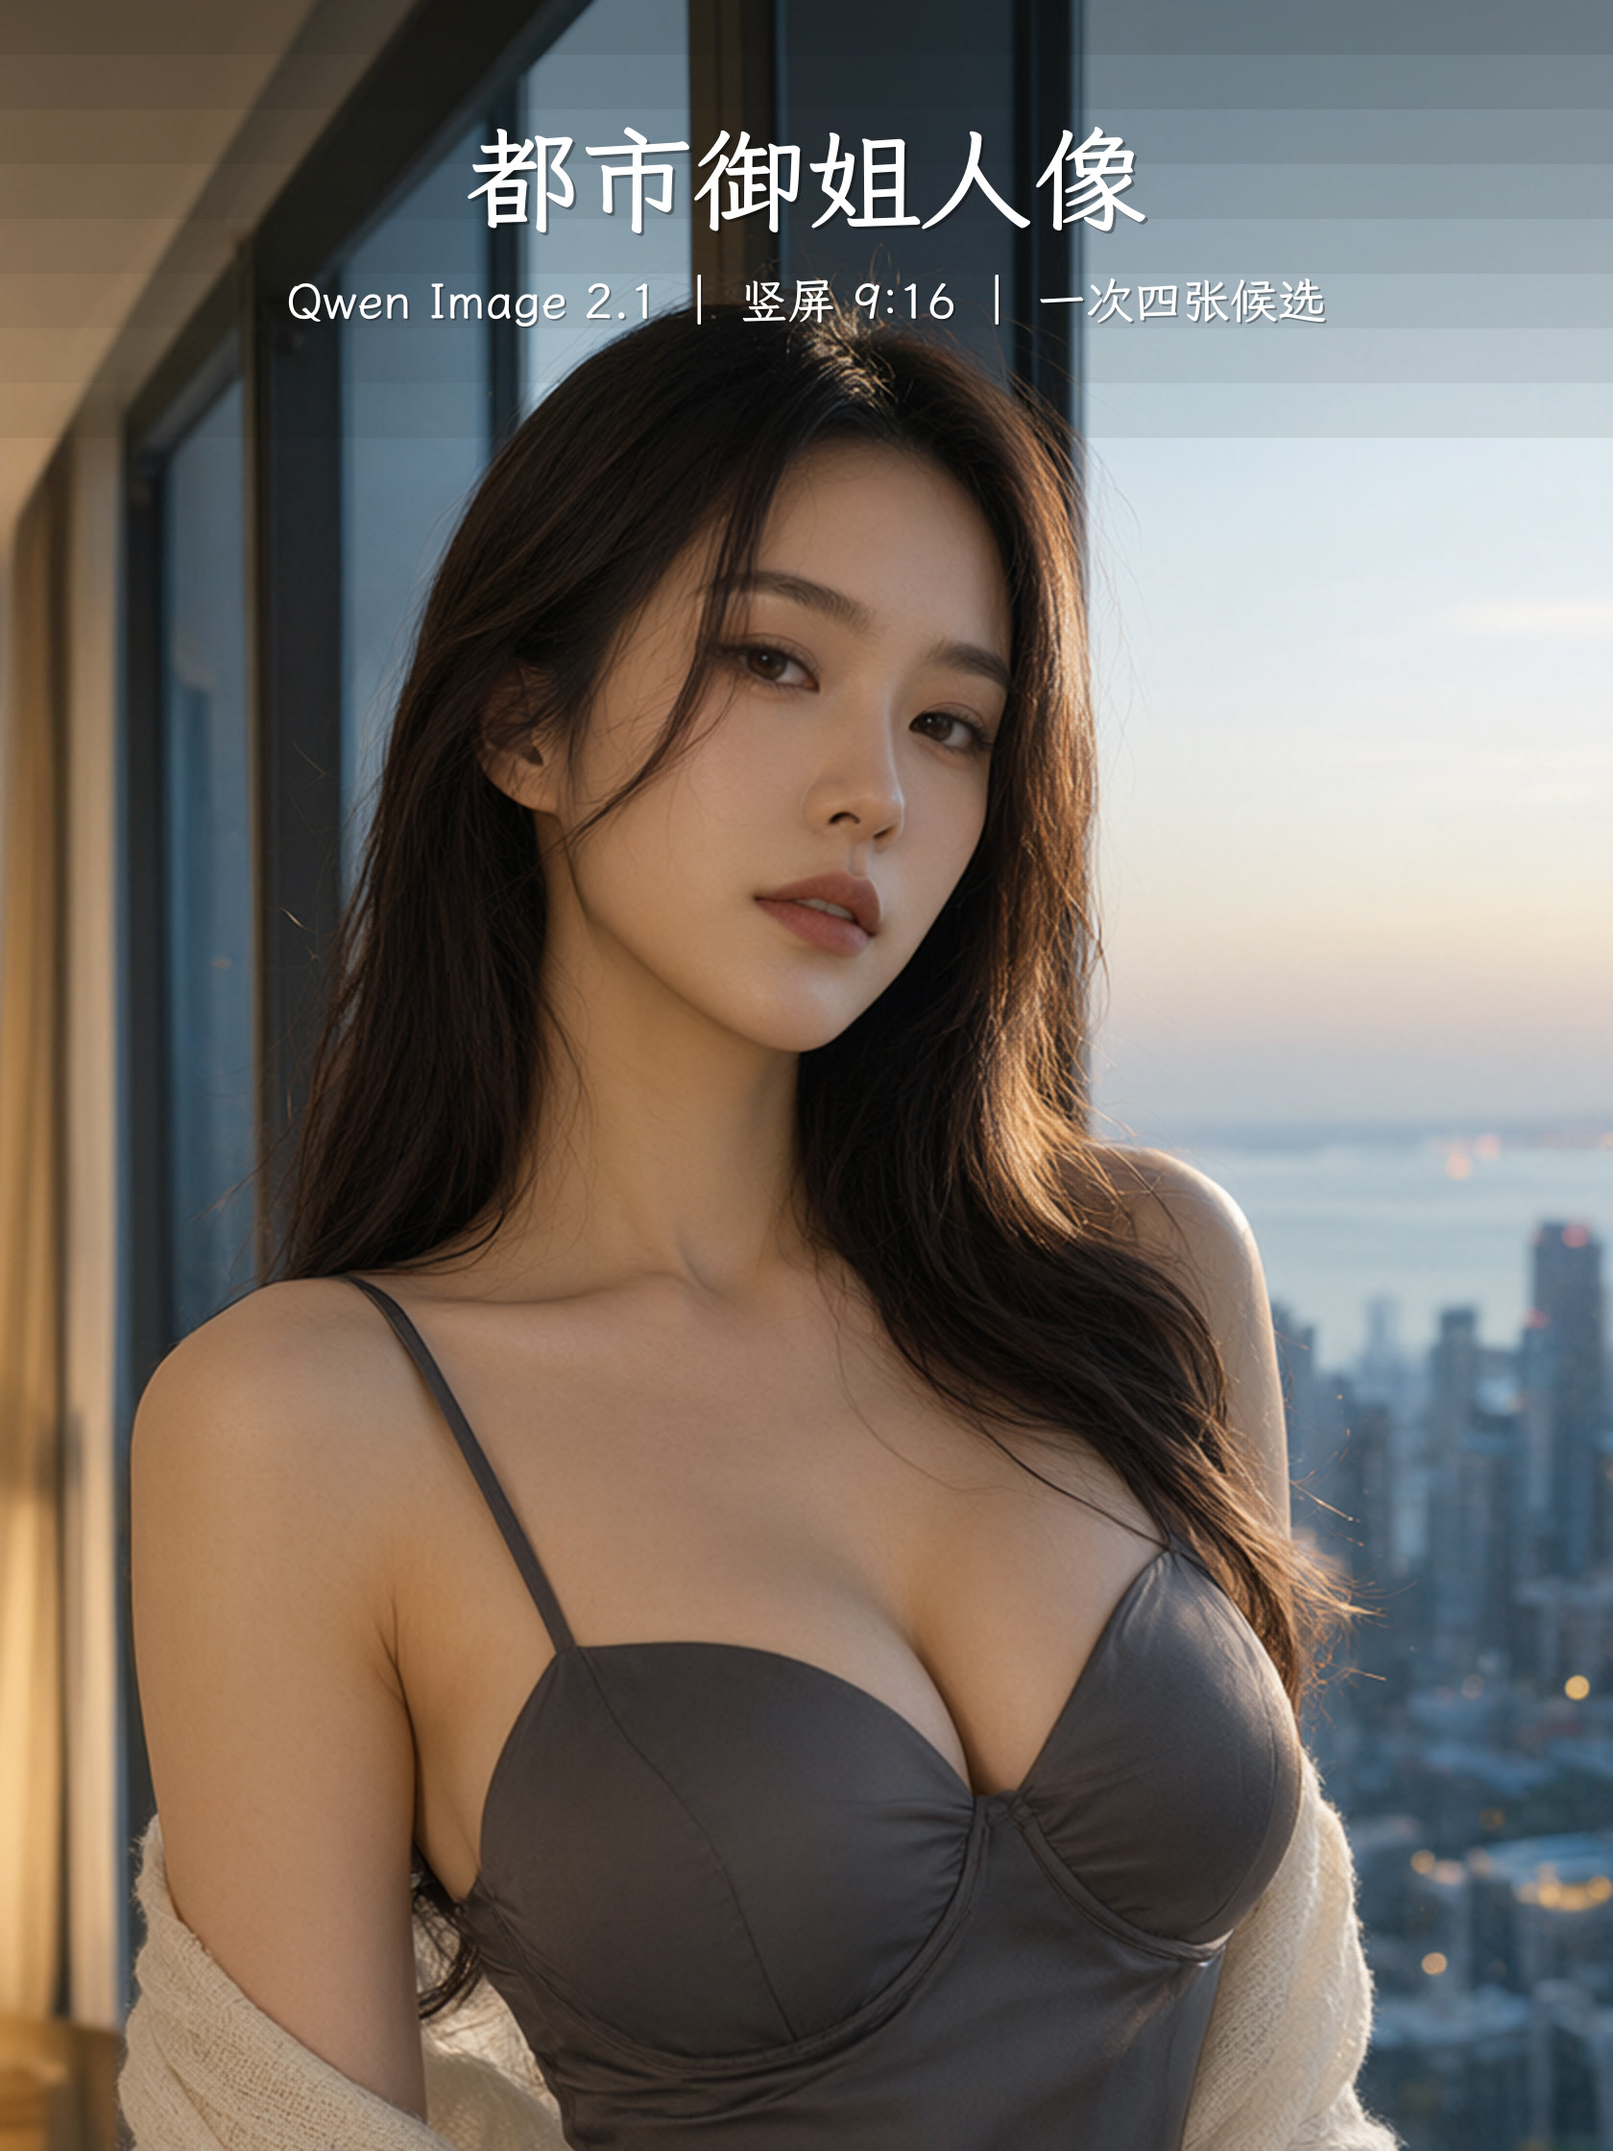
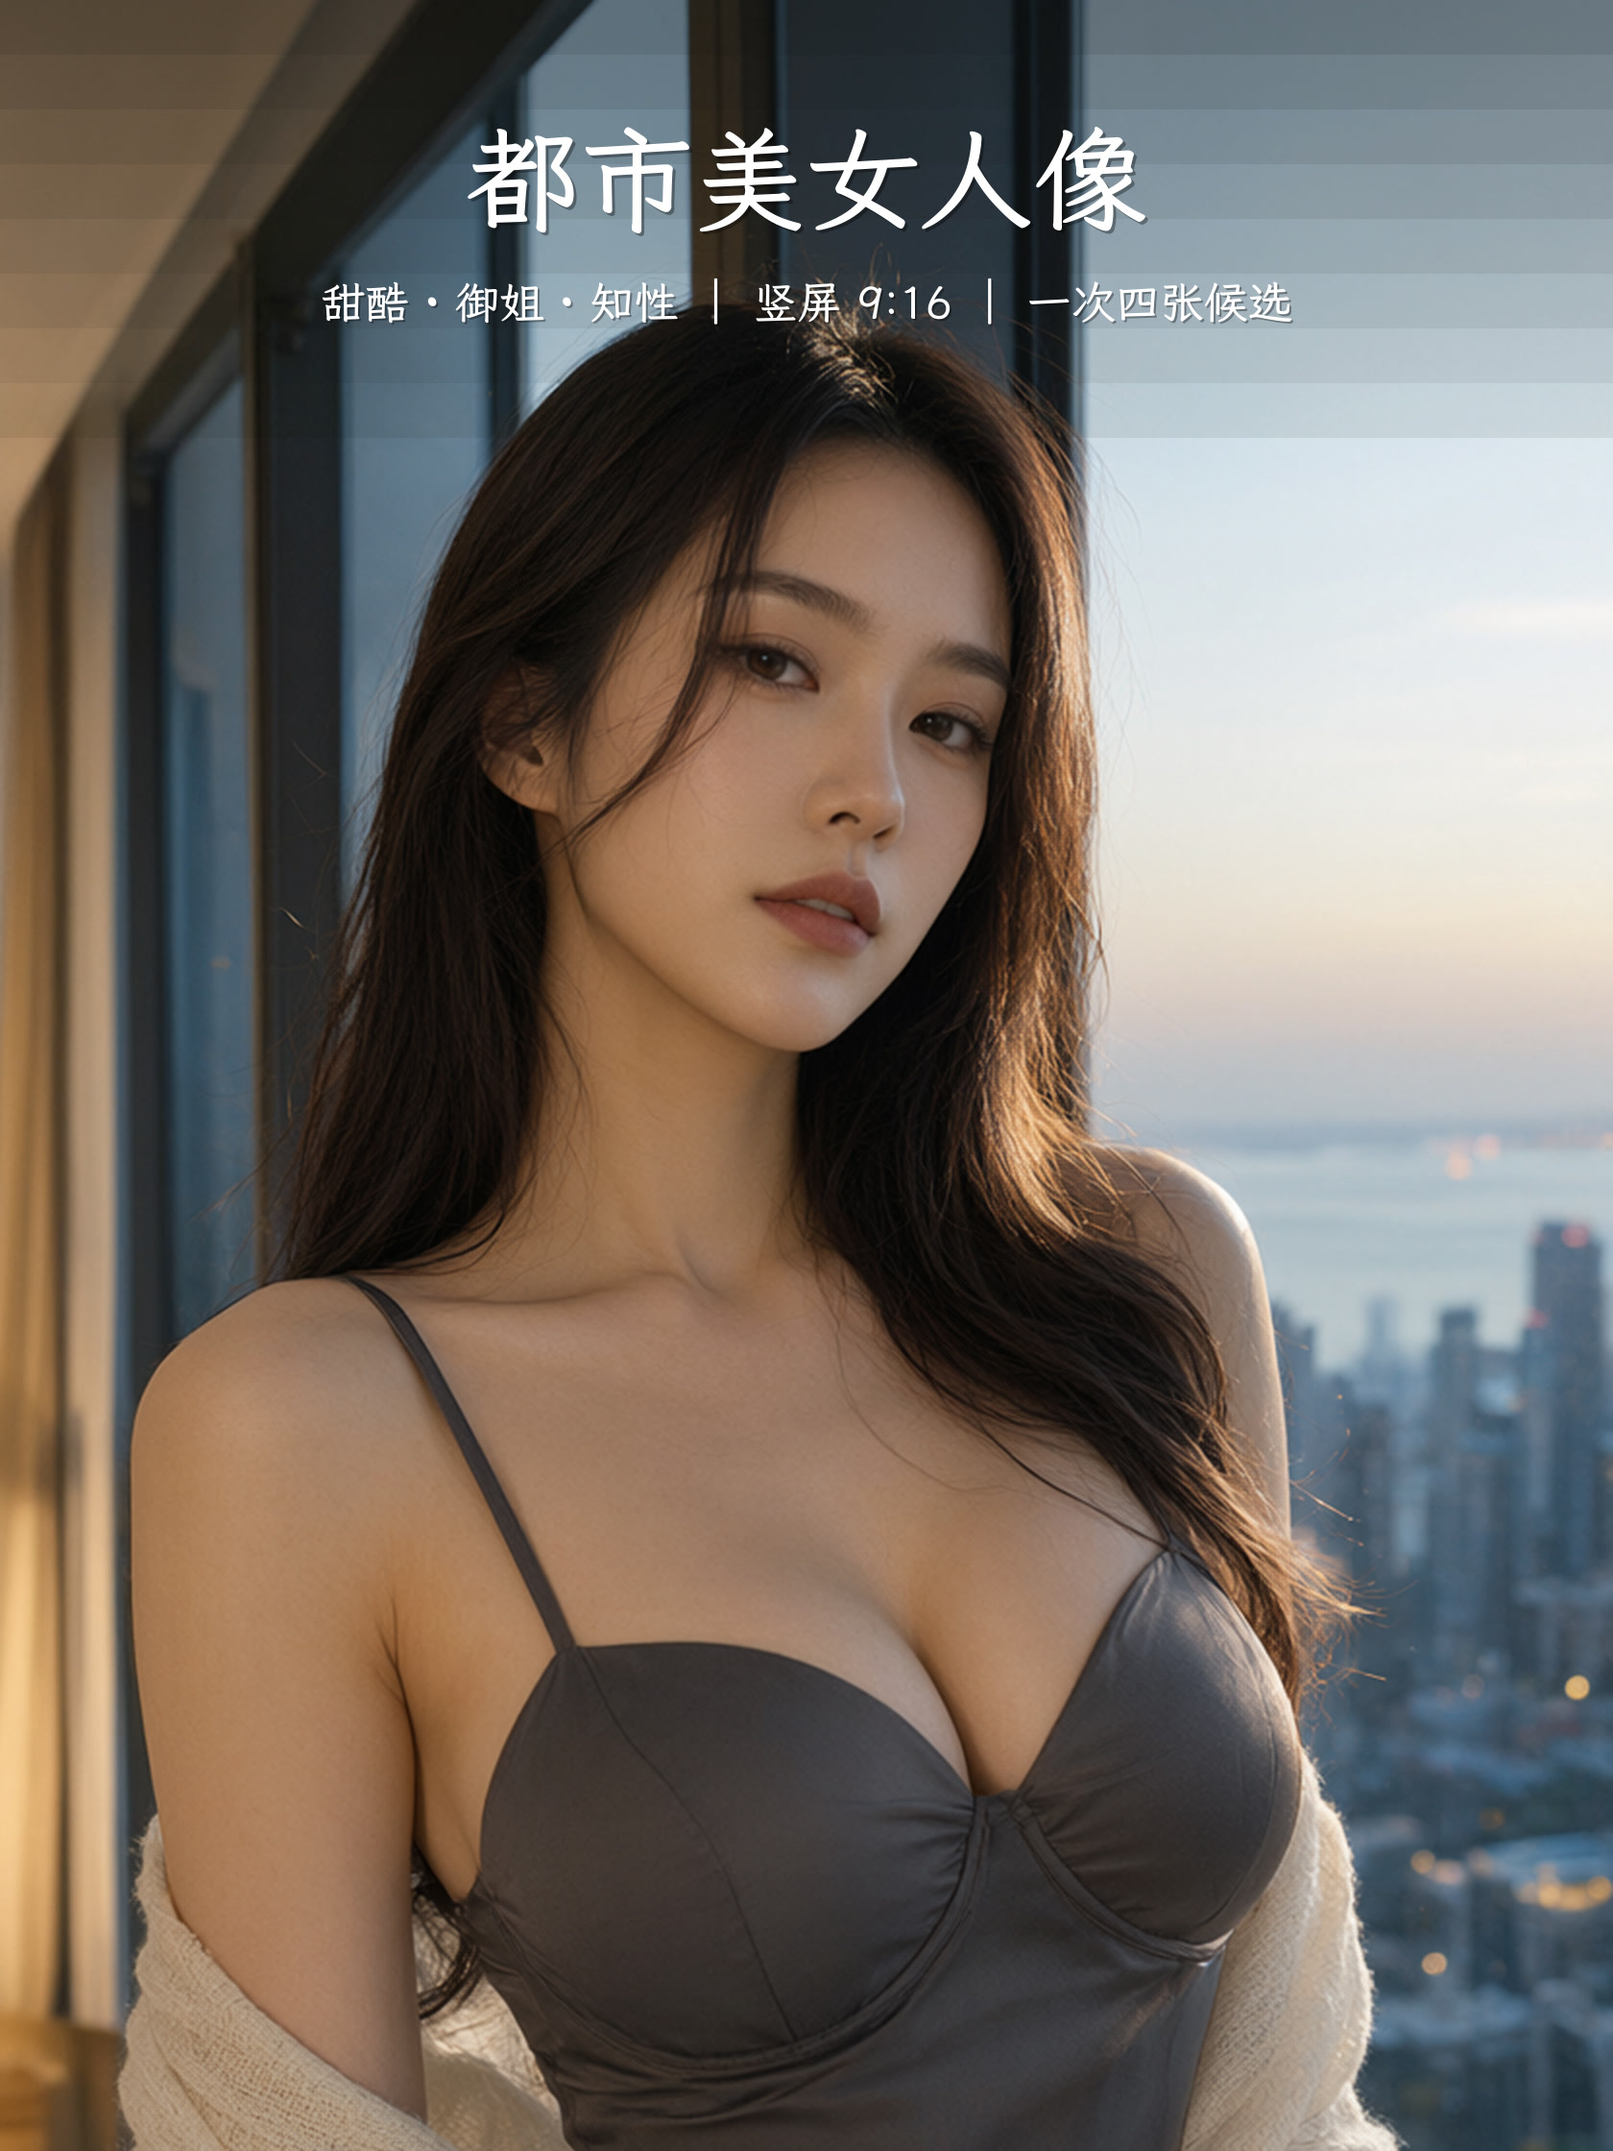
update: 底座换 bf16_Raw、去掉 Cache 节点、默认人设改甜酷纯欲、负向清空

Changed region(s): [[0.1857, 0.0625, 0.619, 0.1562], [0.65, 0.125, 0.8357, 0.1562]]

diff --git a/verified/Qwen2.1-文生图-都市御姐网红-竖屏四张候选/record.md b/verified/Qwen2.1-文生图-都市御姐网红-竖屏四张候选/record.md
@@ -1,12 +1,13 @@
-# Qwen2.1 文生图 · 都市御姐网红 · 竖屏四张候选
+# Qwen2.1 文生图 · 都市美女网红 · 竖屏四张候选
 
-**一句话用途**：以后要出「都市美女 / 御姐 / 纯欲」人像，就用这张图——竖屏 9:16，一次出 4 张同提示词不同种子，挑一张。
+**一句话用途**：以后要出「都市美女 / 甜酷 / 御姐 / 纯欲」人像，就用这张图——竖屏 9:16，一次出 4 张同提示词不同种子，挑一张。
+
+> 目录名沿用建包时的「都市御姐」，现在默认人设已换成**甜酷纯欲**；同一张图换「主体 / 身材 / 妆造 / 服装 / 场景」五行即可切回御姐或知性。
 
 ## 拓扑
 
 ```
-UNETLoader qwen_image_2.1_int8_convrot
-  └─ QwenImage21Cache(device=auto, dtype=default) → KSampler.model
+UNETLoader qwen_image_2.1_bf16_Raw → KSampler.model
 CLIPLoader qwen3vl_8b_int8_convrot (type=qwen_image) → TextEncodeQwenImage21.clip
 TextEncodeQwenImage21 ─ positive → KSampler.positive
                      ─ negative → KSampler.negative
@@ -15,10 +16,15 @@ VAELoader qwen_image_2.1_vae_bf16 → VAEDecode.vae
 KSampler → VAEDecode → SaveImage
 ```
 
-10 节点 / 9 连线。接线取自跑在生产环境的 `rh1`（workflowId `2112845992205840385`），只做了两处**行为不变**的简化：
+**9 节点 / 8 连线**。两处与生产图 `rh1`（workflowId `2112845992205840385`）不同，都是有意为之：
 
-1. 去掉 `String → StringToInt` 链，宽高/批次直接写成控件；
-2. 去掉 `CR Prompt Text` / `PreviewAny`，提示词直接写在文本编码节点上。
+| 改动 | 为什么 |
+|---|---|
+| **去掉 `QwenImage21Cache`** | 平台上每次任务可能落到不同机器，节点装没装随实例而变。少一个可选节点，就多一分「任何机器都能跑」的稳妥；它只包在 model 外层做加速，不是出图必需。实证：去掉后平台跑通。 |
+| **负向提示词清空** | cfg=1 时负向分支不参与计算，写什么都是死参数，留着只会误导人以为能靠负向修图。 |
+| 底座 `int8_convrot` → `bf16_Raw` | 整精度，皮肤与发丝细节更足；代价是更慢、更吃显存。 |
+
+另外去掉了 `String → StringToInt` 与 `CR Prompt Text`，宽高/批次/提示词直接写在控件上。
 
 ## 默认参数
 
@@ -26,29 +32,30 @@ KSampler → VAEDecode → SaveImage
 |---|---|---|
 | 画幅 | 832×1472（≈9:16，两边都是 16 的倍数） | 手机竖屏；比例不对会被 latent 向下取整 |
 | 批次 | 4 | 一次出 4 张候选，耗时几乎不涨 |
-| 步数 / cfg | 25 / 1 | 这是这套 int8 底座的出厂跑法；**cfg=1 时负面提示词完全不生效** |
-| 采样器 / 调度 | euler / simple | 同上 |
-| 种子 | 20261119（节点上可切 randomize） | 固定才能复现 |
-| 提示词 | 430 字中文，按「主体/身材/姿态/妆造/服装/场景/镜头/神情/光线/质感」分行 | 改一行换一块 |
+| 步数 / cfg | 25 / 1 | 官方 Qwen-Image 2.1 模板值；**cfg=1 负向不生效** |
+| 采样器 / 调度 | euler / simple | 官方模板与 Hub 工作流一致，flow-matching 模型的主流配法 |
+| 种子 | 20261120（节点上可切 randomize） | 固定才能复现 |
+| 提示词 | 368 字中文，十行结构 | 甜酷纯欲 · 街角便利店 |
 
 ## 实测数据
 
-- taskId `2123085685190778882`（v2，挺立版），4 张全部落盘，单张 1.82–1.94 MB，832×1472 精确命中。
-- 首版 taskId `2123084776364789762`：胸型偏小偏垂 → 加「身材」「姿态」两段 + 服装改「内置挺括胸衣结构」后重跑，v2 达标。
-- 耗时平台未回传；同参数历史记录（rh1，1440×608 四张）为 42–55s 量级，本包尺寸更小。
+- **int8 版**：taskId `2123085685190778882`，4 张全落盘，832×1472 精确命中，单张 1.82–1.94 MB。
+- **bf16 版**（当前版本）：使用者在 RunningHub 平台跑通并确认可用；耗时与显存占用未回填（bf16 比 int8 更重，属预期）。
+- 封面图取自 int8 版 v2 第 1 张，仅作示意，不代表当前提示词的出图结果。
 
 ## 已知限制
 
-1. **cfg=1，负面提示词是死参数**。写「不要下垂」不会生效，只能靠正文正向描述（挺立 / 位置高 / 姿态前挺 / 胸衣结构）。
-2. 身体比例推太狠会开始出现不自然，到「丰满挺立」就已经接近上限。
-3. 尺寸只能微调：宽高都必须是 16 的倍数，且比例别偏离 9:16 太多，否则构图会漂。
-4. 平台审核对露点与暗示性姿势直接拦截——本包提示词不含任何越线词，靠神态与侧逆光造氛围。
-5. UI 版控件顺序按 `/object_info` 逐个核过，但没有在浏览器里真导入过（文件选择器没法自动化）；API 版是实测跑通的，导入若有问题就用 API 版。
+1. **cfg=1，负向提示词是死参数**（已清空）。要修「脸崩 / 手指」只能改正向描述，或把 cfg 提到 2（画质会降）。
+2. **bf16 更吃显存**：大图或高批次在小卡实例上可能 OOM；真遇到就把 batch 降到 1–2。
+3. 身体比例推太狠会开始不自然，「丰满挺立」已经接近上限。
+4. 宽高必须是 16 的倍数且成对改，比例偏了构图会漂。
+5. 平台对露点与暗示性姿势直接拦截；丝袜类只写「黑色薄丝袜，光泽细腻」，不写吊带袜 / 渔网 / 蕾丝边。
+6. **UI 版控件顺序按 `/object_info` 逐个核过，但没有在浏览器里真导入过**（文件选择器无法自动化）；导入若报参数串位，以 `build.mjs` 重新生成为准。
 
 ## 复现命令
 
 ```bash
-# 生成（改提示词/画幅/种子后重跑）
+# 生成（改提示词/底座/画幅/种子后重跑）
 node build.mjs
 
 # 自检
@@ -57,14 +64,11 @@ node check.mjs
 # 直投实测（走 runninghub-workflow-lab-yashu 的 rhx）
 node <runninghub-workflow-lab-yashu>/scripts/rhx.mjs run --workflow workflow.api.json \
   --out "<绝对目录>" --name v1
-
-# 云端别名（同一模型同一参数，提示词已预填）
-node <runninghub-cloud-yashu>/scripts/rh.mjs --alias rh-beauty --in batch=4 --out "<绝对目录>"
 ```
 
 ## 封面
 
-- 图：`cover-3x4.jpg`（1680×2240），主体取自本包 v2 第 1 张，裁 3:4 后叠字。
-- 主标：`都市御姐人像`
-- 副标：`Qwen Image 2.1 ｜ 竖屏 9:16 ｜ 一次四张候选`
+- 图：`cover-3x4.jpg`（1680×2240），主体取自本包 int8 版 v2 第 1 张，裁 3:4 后叠字。
+- 主标：`都市美女人像`
+- 副标：`甜酷 · 御姐 · 知性 ｜ 竖屏 9:16 ｜ 一次四张候选`
 - 文字用霞鹜文楷 GB Medium（`LXGWWenKaiGB-Medium.ttf`）本地渲染，不让模型直出中文。

diff --git a/verified/README.md b/verified/README.md
@@ -13,7 +13,7 @@
 - 问：「给一条现成视频配中文、只改嘴、保留原表演怎么做？」→ 答：**`InfiniteTalk-视频对口型-单人近景-4步锁动作`**（视频当 latent 起点 + 4 步锁动作；别用 `2118402573337186305` 那条一图+音频的，那条会把原表演全丢）
 - 问：「两个人同框，只要左边那位改说另一段配音、右边那位不能动，怎么做？」→ 答：**`H3-视频加音频-指定人物对口型-4步turbo一采`**（原片当 `ref_video` + 音频进 `VRGDG_MiniMaxH3AudioDrive`；听者用一句正向静止嘴形压住，技法见 `references/音频驱动对口型.md`）
 - 问：「音频前后怎么补静音？音频时长怎么凑成 H3 要的 17k+5 帧？」→ 答：**`H3-音频驱动数字人-语音克隆-TTS补静音`**（`AudioBeforeAfterSilence` → `SoundFlow_GetLength` → `ComfyMathExpression`；公式与坑见 `references/音频补静音与时长凑帧.md`）
-- 问：「以后要出美女图 / 御姐网红人像走哪条？」→ 答：**`Qwen2.1-文生图-都市御姐网红-竖屏四张候选`**（Qwen Image 2.1，832×1472 竖屏一次四张候选；**cfg=1 负面不生效**，胸型/气质全靠正向描述）
+- 问：「以后要出美女图 / 甜酷 / 御姐人像走哪条？」→ 答：**`Qwen2.1-文生图-都市御姐网红-竖屏四张候选`**（Qwen Image 2.1 bf16，832×1472 竖屏一次四张候选；默认甜酷纯欲；**cfg=1 负面不生效且已清空**，胸型/气质全靠正向描述）
 
 ## 清单
 
@@ -43,7 +43,7 @@
 | **InfiniteTalk 视频对口型 · 单人近景 · 4 步锁动作** | 2026-11-17 | 现成视频当 latent 起点（`WanVideoEncode` → `samples`）+ 中文 wav2vec2 逐帧驱动嘴 → `start_step=2` / 4 步锁动作；一采直出 @864×736；25fps / 音轨换成新配音 | 864×736 / 84 帧 / 3.36s；老板在 RH 平台跑通、成片层面确认「效果还行」；3/4 侧脸可用；音频 3.336s 严格对齐 | 画幅必须等于源片否则裁头；帧数三处（270 / 194 / frame_load_cap）必须同值；单张脸，硬切与多人要切段；对齐音频会裁掉镜头尾巴；平台水印；封面已补（系列 05） | [InfiniteTalk-视频对口型-单人近景-4步锁动作](InfiniteTalk-视频对口型-单人近景-4步锁动作/record.md) |
 | **H3 视频 + 音频 · 指定人物对口型 · 4 步 turbo 一采** | 2026-11-17 | Ref2VA（原片 → `ref_video_0`、首帧 → `ref_image_0`）+ `VRGDG_MiniMaxH3AudioDrive` 把配音写进 `av_latent`，成片音轨取 `original_audio` → 4 步 turbo 一采 @864×736；24fps / 音轨 = 上传配音 | 864×736 / 90 帧 / 3.750s / 716 KB；28 节点 / 31 连线 / 红 4 橙 1 自检通过；全帧帧间差 0.707（峰 2.548）；右半区帧间差 0.020–0.746（听者静止）；嘴部 15 帧拼条逐字开合；音频 −31.4 / −11.1 dB，句尾静音起点 3.194s；首帧 vs 源片 PSNR Y 17.17 dB | 4 步 turbo 下身份细节会漂（胡须变短、帽纹改写），要更贴改 20 步；源片水印被洗掉；音频 3.336s 只能取 90 帧，尾部 0.41s 静音须裁；源片帧数不在 17k+5 要先用 `tpad` 补帧 | [H3-视频加音频-指定人物对口型-4步turbo一采](H3-视频加音频-指定人物对口型-4步turbo一采/record.md) |
 | **H3 音频驱动数字人 · 语音克隆 · TTS 补静音** | 2026-11-18（入库） | `Qwen3-TTS 1.7B` 克隆参考音色念文本 → `AudioBeforeAfterSilence(0.4/0)` → `SoundFlow_GetLength` + `ComfyMathExpression` 凑 17k+5 → `VRGDG_MiniMaxH3AudioDrive` 驱动 Ref2VA（单图 + ref_audio）；9:16 / 0.5MP；20 步 `res_multistep` 无 LoRA；24fps | **未实测**（老板要求先入库，不跑、不做封面） | 未跑过；`before=0.4` 会进成片；`AudioCrop` 只取前 20 秒；转写错会带歪音色；缺 `build.mjs` / `check.mjs` / 封面 | [H3-音频驱动数字人-语音克隆-TTS补静音](H3-音频驱动数字人-语音克隆-TTS补静音/record.md) |
-| **Qwen2.1 文生图 · 都市御姐网红 · 竖屏四张候选** | 2026-11-19（入库） | Qwen Image 2.1 int8 + Qwen3-VL 8B（`type=qwen_image`）+ qwen_image_2.1 VAE → 25 步 / cfg 1 / euler·simple → 832×1472 / batch 4；10 节点 / 9 连线；UI 图入库，API 图由 `build.mjs` 生成（不入库，见 .gitignore） | 平台实测 4 张全落盘（taskId `2123085685190778882`），832×1472 精确命中，单张 1.82–1.94 MB；v2 胸型「挺立」达标，老板确认 | **cfg=1 负面提示词不生效**（只能正向描述）；比例推太狠会失真；UI 版控件顺序按 `/object_info` 核过但未在浏览器真导入验证；平台对越线内容直接拦 | [Qwen2.1-文生图-都市御姐网红-竖屏四张候选](Qwen2.1-文生图-都市御姐网红-竖屏四张候选/record.md) |
+| **Qwen2.1 文生图 · 都市美女网红 · 竖屏四张候选** | 2026-11-19（入库） | Qwen Image 2.1 **bf16_Raw** + Qwen3-VL 8B（`type=qwen_image`）+ qwen_image_2.1 VAE → 25 步 / cfg 1 / euler·simple → 832×1472 / batch 4；**9 节点 / 8 连线，无 Cache 节点、负向已清空**；UI 图入库，API 图由 `build.mjs` 生成 | int8 版实测 4 张全落盘（taskId `2123085685190778882`，单张 1.82–1.94 MB）；bf16 版使用者在平台跑通确认可用，耗时未回填 | **cfg=1 负面提示词无效**（已清空）；bf16 更吃显存，小卡可能 OOM；UI 版未在浏览器真导入验证；平台对越线内容直接拦 | [Qwen2.1-文生图-都市御姐网红-竖屏四张候选](Qwen2.1-文生图-都市御姐网红-竖屏四张候选/record.md) |
 
 ## 入库标准（六条都要满足）
 
